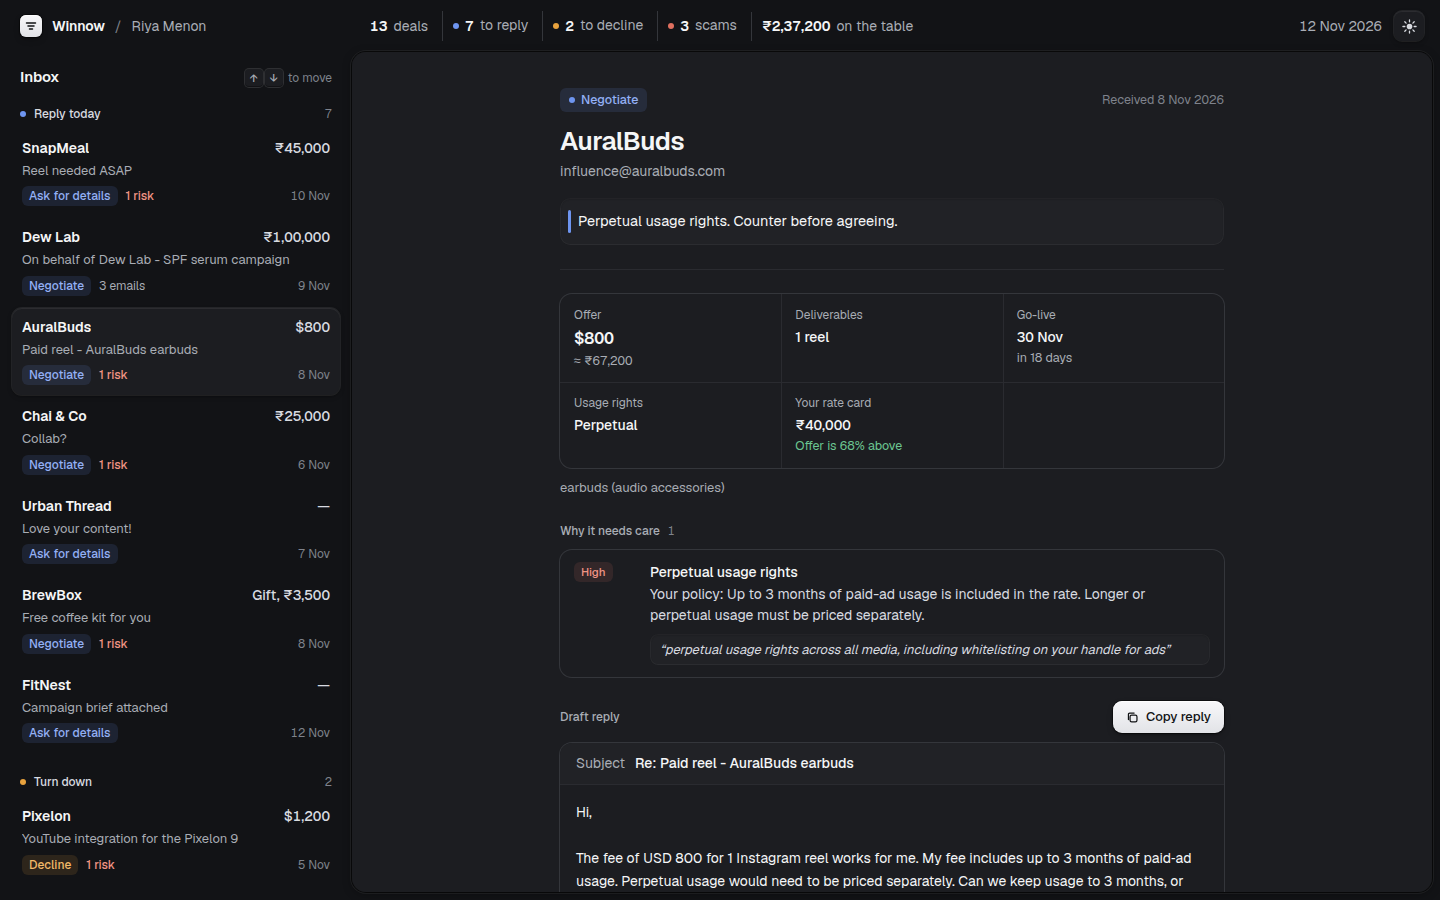
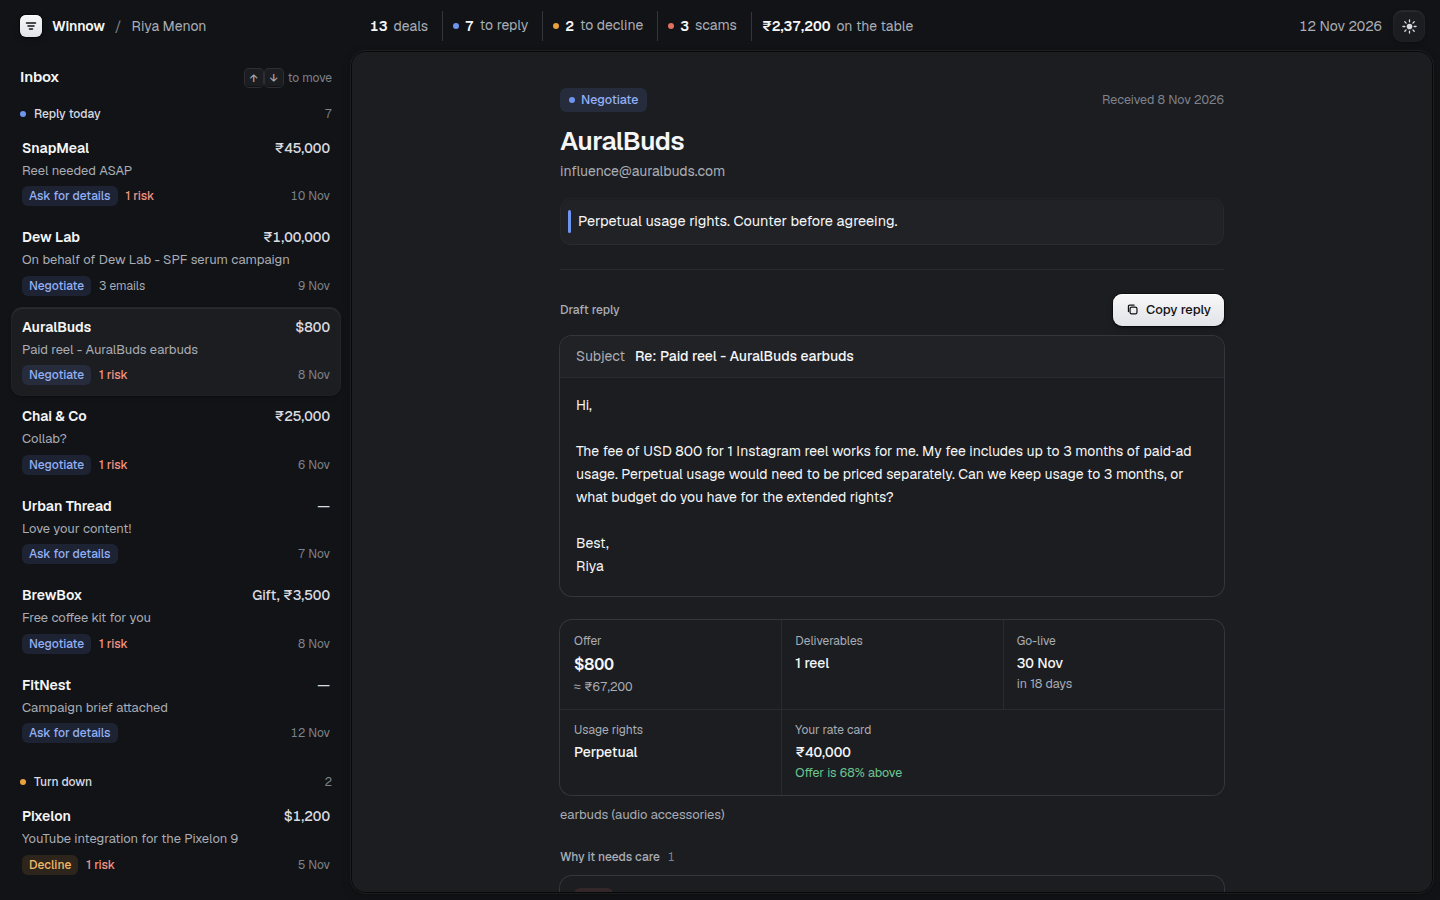
Redesign the UI as an inbox app: scam warning first, tidy terms grid and phone header

diff --git a/web/App.tsx b/web/App.tsx
@@ -181,7 +181,7 @@ function Stat({ label, value, tone, wide }: { label: string; value: string; tone
 }
 
 function Row({ deal, active, onPick }: { deal: Deal; active: boolean; onPick: () => void }) {
-  const offer = offerText(deal.terms)
+  const offer = deal.action === 'report' ? null : offerText(deal.terms)
   const latest = emailsById.get(deal.latestEmailId)
   const high = deal.flags.filter((f) => f.severity === 'high').length
   return (
@@ -251,6 +251,25 @@ function Detail({ deal, mobile, onBack }: { deal: Deal; mobile: boolean; onBack:
           <p className={`d-why t-${tone(deal)}`}>{deal.why}</p>
         </header>
 
+        <section className="block">
+          {scam ? (
+            <div className="warning" role="alert">
+              <svg viewBox="0 0 20 20" width="18" height="18" aria-hidden>
+                <path d="M10 2.5 18 17H2L10 2.5Z" fill="none" stroke="currentColor" strokeWidth="1.6" strokeLinejoin="round" />
+                <path d="M10 8v4M10 14.2v.3" stroke="currentColor" strokeWidth="1.8" strokeLinecap="round" />
+              </svg>
+              <div>
+                <h3>Do not reply, pay, or click any link</h3>
+                <p>This looks like a scam, so there is no draft. Report the sender as phishing in your mail app and delete it. If you clicked something, change your passwords.</p>
+              </div>
+            </div>
+          ) : deal.draft ? (
+            <Draft draft={deal.draft} />
+          ) : (
+            <p className="none-note">No reply needed.</p>
+          )}
+        </section>
+
         {!scam && (
           <section className="block" aria-label="Terms">
             <dl className="terms">
@@ -309,24 +328,6 @@ function Detail({ deal, mobile, onBack }: { deal: Deal; mobile: boolean; onBack:
           </section>
         )}
 
-        <section className="block">
-          {scam ? (
-            <div className="warning" role="alert">
-              <svg viewBox="0 0 20 20" width="18" height="18" aria-hidden>
-                <path d="M10 2.5 18 17H2L10 2.5Z" fill="none" stroke="currentColor" strokeWidth="1.6" strokeLinejoin="round" />
-                <path d="M10 8v4M10 14.2v.3" stroke="currentColor" strokeWidth="1.8" strokeLinecap="round" />
-              </svg>
-              <div>
-                <h3>Do not reply, pay, or click any link</h3>
-                <p>This looks like a scam, so there is no draft. Report the sender as phishing in your mail app and delete it. If you clicked something, change your passwords.</p>
-              </div>
-            </div>
-          ) : deal.draft ? (
-            <Draft draft={deal.draft} />
-          ) : (
-            <p className="none-note">No reply needed.</p>
-          )}
-        </section>
 
         <section className="block">
           <h3 className="label">

diff --git a/web/index.css b/web/index.css
@@ -874,3 +874,34 @@ kbd {
     transition: none !important;
   }
 }
+
+/* A lone last term stretches, so the grid never ends on an empty cell. */
+@media (min-width: 1181px) {
+  .term:last-child:nth-child(3n + 2) {
+    grid-column: span 2;
+  }
+  .term:last-child:nth-child(3n + 1) {
+    grid-column: span 3;
+  }
+}
+@media (max-width: 1180px) {
+  .term:last-child:nth-child(odd) {
+    grid-column: span 2;
+  }
+}
+@media (max-width: 899px) {
+  .stat:first-child {
+    display: none;
+  }
+  .stat:nth-child(2) {
+    padding-left: 0;
+    border-left: 0;
+  }
+  .stat {
+    padding: 2px 10px;
+    font-size: 13px;
+  }
+  .queue-head {
+    display: none;
+  }
+}
